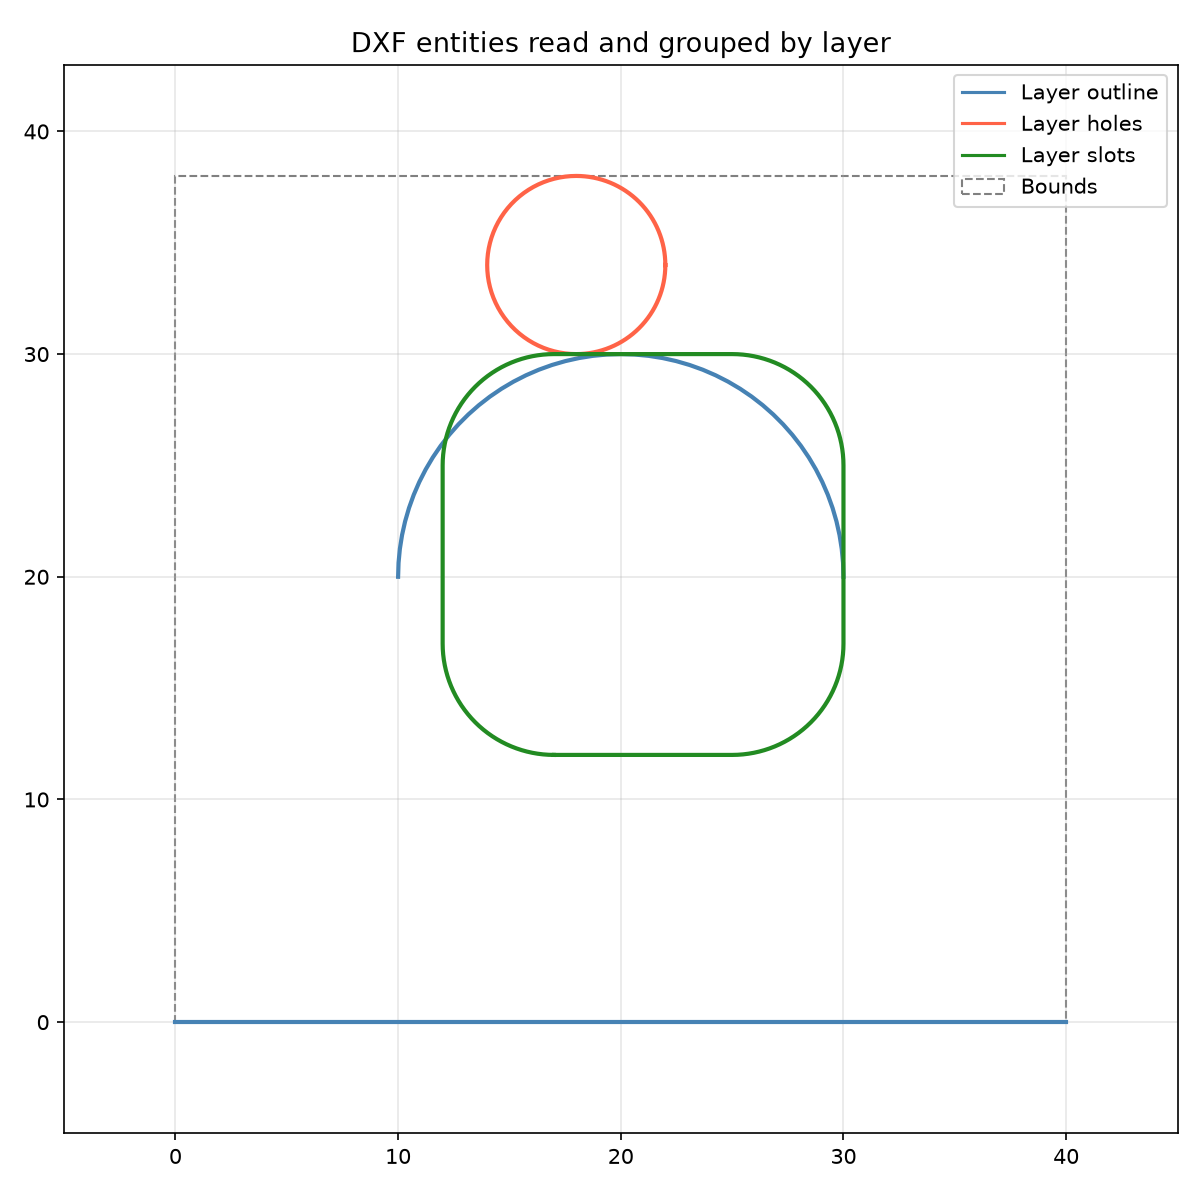
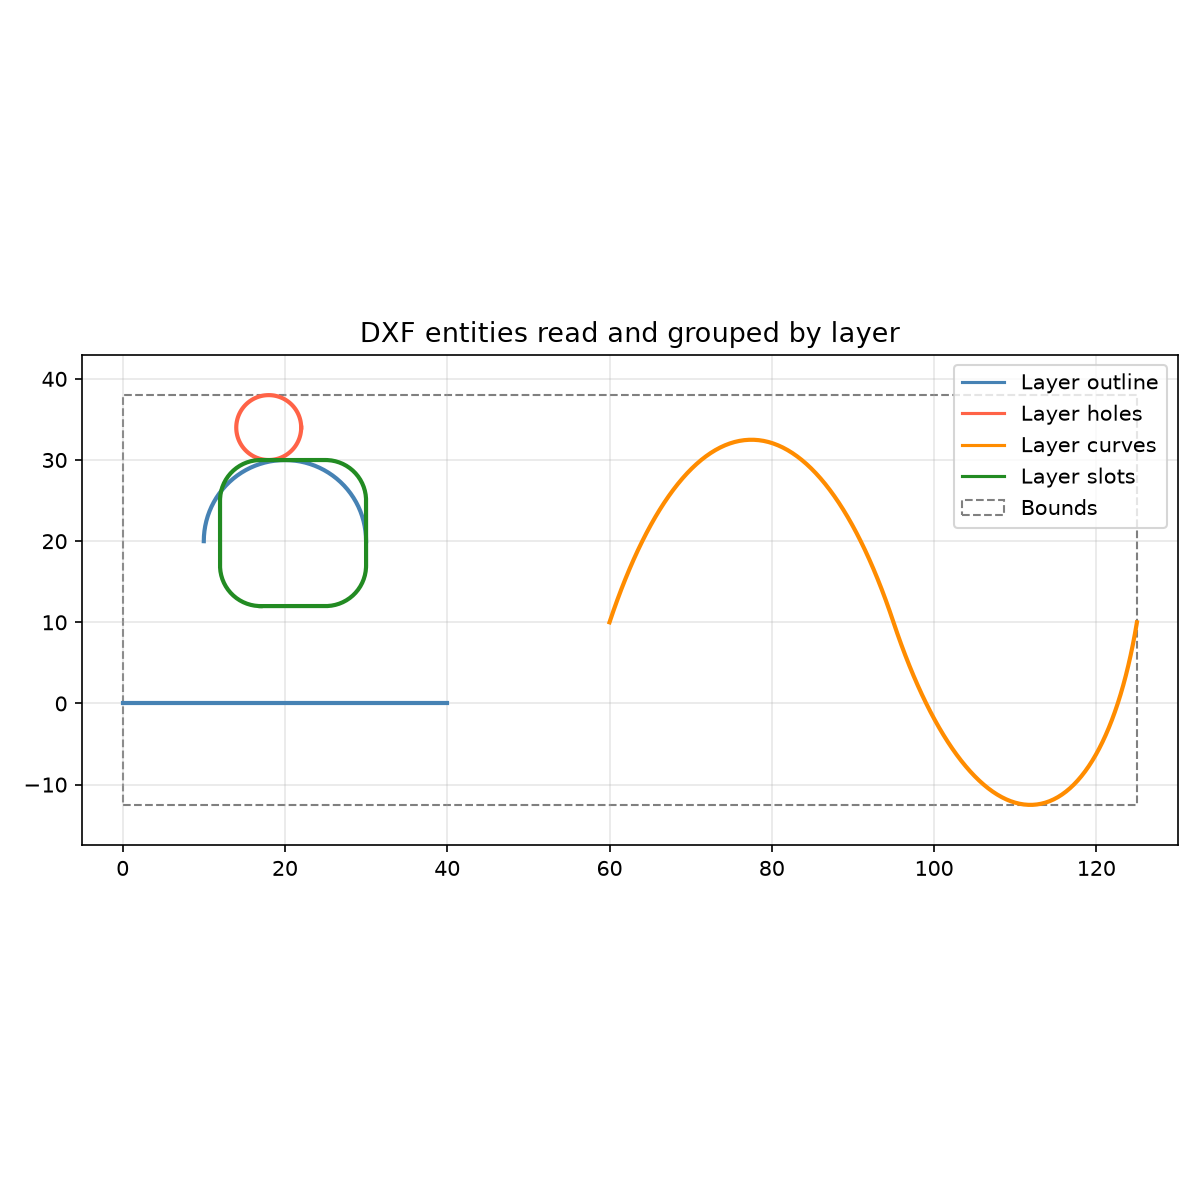
fix(dxf): extract spline spans by degree+1, not one control point
Exporters write a smooth curve as a piecewise-bezier spline whose
interior knots already carry full multiplicity, so each span owns
degree+1 control points and the junction is repeated. The extraction
slid a four-point window forward one point at a time, blending control
points from two neighbouring spans: on a real 86-span chain it produced
341 segments of which 100 were fully degenerate and the rest wobbled
around the true curve, which renders as hatched, jagged outlines.

The window now advances by degree+1, exactly matching the knot vector's
spans. On the reported drawing the chain is 86 segments with zero
degenerate and zero broken junctions. If the control count is not a
multiple of degree+1 (a knot vector that disagrees with its control
array), extraction declines and the reader falls back to sampled
fitting.

Also registers the ellipse and spline behaviour in the docs example:
the DXF shapes figure now includes a smooth spline on its own layer.

diff --git a/tools/examples/formats_dxf.py b/tools/examples/formats_dxf.py
@@ -75,6 +75,57 @@ def generate_shapes():
             ),
             ("CIRCLE", "holes", [(10, 18), (20, 34), (40, 4)]),
             (
+                "SPLINE",
+                "curves",
+                # A smooth curve written the way CAD exporters write one:
+                # a piecewise-bezier spline whose interior knot carries
+                # full multiplicity, so each span owns four control
+                # points and reading it must advance by four.
+                [
+                    (70, 8),
+                    (71, 3),
+                    (72, 12),
+                    (73, 8),
+                    (74, 0),
+                    (40, 0.0),
+                    (40, 0.0),
+                    (40, 0.0),
+                    (40, 0.0),
+                    (40, 0.5),
+                    (40, 0.5),
+                    (40, 0.5),
+                    (40, 0.5),
+                    (40, 1.0),
+                    (40, 1.0),
+                    (40, 1.0),
+                    (40, 1.0),
+                    (10, 60.0),
+                    (20, 10.0),
+                    (30, 0.0),
+                    (10, 70.0),
+                    (20, 40.0),
+                    (30, 0.0),
+                    (10, 85.0),
+                    (20, 40.0),
+                    (30, 0.0),
+                    (10, 95.0),
+                    (20, 10.0),
+                    (30, 0.0),
+                    (10, 100.0),
+                    (20, 10.0),
+                    (30, 0.0),
+                    (10, 105.0),
+                    (20, -20.0),
+                    (30, 0.0),
+                    (10, 120.0),
+                    (20, -20.0),
+                    (30, 0.0),
+                    (10, 125.0),
+                    (20, 10.0),
+                    (30, 0.0),
+                ],
+            ),
+            (
                 "LWPOLYLINE",
                 "slots",
                 # A rounded rectangle: straight edges with a quarter-turn
@@ -117,6 +168,7 @@ def generate_shapes():
         "outline": "steelblue",
         "holes": "tomato",
         "slots": "forestgreen",
+        "curves": "darkorange",
     }
     for name, geometry in output.layers:
         plot_geometry(

diff --git a/src/formats/dxf/entity_parser.rs b/src/formats/dxf/entity_parser.rs
@@ -569,13 +569,23 @@ fn split_into_beziers(
             }
         }
     }
-    let span_count = points.len().saturating_sub(degree);
-    if span_count == 0 {
+    // The insertion pass leaves every distinct interior knot at full
+    // multiplicity, so the control array is the concatenation of the
+    // spans' bezier polygons: span k owns points[(d+1)k .. (d+1)k + d + 1].
+    // Advancing by one point instead blends control points from two
+    // spans and renders as zig-zag. A leftover that is not a multiple of
+    // d + 1 means the file's knot vector and control count disagree; the
+    // caller falls back to sampling in that case.
+    if !points.len().is_multiple_of(degree + 1) {
         return None;
     }
-    let mut segments = Vec::with_capacity(span_count);
-    for span in 0..span_count {
-        let from = span;
+    let segment_count = points.len() / (degree + 1);
+    if segment_count == 0 {
+        return None;
+    }
+    let mut segments = Vec::with_capacity(segment_count);
+    for span in 0..segment_count {
+        let from = span * (degree + 1);
         let window = &points[from..from + degree + 1];
         let mut segment = [DVec3::ZERO; 4];
         for (slot, point) in segment.iter_mut().zip(window.iter()) {
